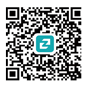
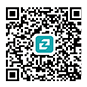
00

diff --git a/css/homepage.css b/css/homepage.css
@@ -56,7 +56,7 @@ a{
     -webkit-transition: all 0.2s;
 }
 .fanzhuanmargin{
-    margin-left: 0 !important;
+    margin-left: 28px !important;
 }
 
 /* 公共头部 */
@@ -239,14 +239,14 @@ header{
     width: 100%;
     background-image: url(../image/banner1.png);
     background-repeat: no-repeat;
-    background-size: auto 100%;
+    background-size: cover;
 }
 .two{
     height: 785px;
     width: 100%;
     background-image: url(../image/banner2.png);
     background-repeat: no-repeat;
-    background-size: auto 100%;
+    background-size: cover;
 }
 .one>img{
      width: 100%; 
@@ -301,7 +301,7 @@ video{
     height: 455px;
     background-image: url(../image/trouble.svg);
     background-repeat: no-repeat;
-    background-size: 100% 455px;
+    background-size: cover;
     position: relative;
 }
 .trouble_within{
@@ -470,7 +470,7 @@ video{
     width: 100%;
     height: 548px;
     background-image: url(../image/intro.png);
-    background-size: auto 130%;
+    background-size: cover;
     background-repeat: no-repeat;
     position: relative;
     overflow: hidden;
@@ -541,7 +541,7 @@ video{
     right: -1500px;
 }
 .advantage_padding{
-    height: 486px;
+    height: 512px;
 }
 .out_advantage{
     width: 100%;
@@ -616,7 +616,7 @@ video{
     width: 100%;
     height: 686px;
     background-image: url(../image/service.png);
-    background-size: auto 130%;
+    background-size: cover;
     background-repeat: no-repeat;
     position: relative;
     overflow: hidden;
@@ -645,8 +645,7 @@ video{
     background-position: 0 bottom;
     width: 247px;
     height: 410px;
-    /* margin-left: 28px; */
-    /* left: 28px; */
+    margin-left: 28px;
     margin-top: 26px;
 }
 .back{
@@ -988,7 +987,7 @@ video{
     width: 100%;
     height: 694px;
     background-image: url(../image/sence.png);
-    background-size: auto 130%;
+    background-size: cover;
     position: relative;
     overflow: hidden;
     background-repeat: no-repeat;
@@ -1006,7 +1005,7 @@ video{
     margin-top: 30px;
     height: 508px;
     background-image: url(../image/sence.svg);
-    background-size: 430px 480px;
+    background-size: cover;
     background-repeat: no-repeat;
     background-position: 322px 0;
     position: relative;
@@ -1396,7 +1395,7 @@ video{
 .news{
     height: 564px;
     background-image: url(../image/news.png);
-    background-size: auto 130%;
+    background-size: cover;
     position: relative;
     overflow: hidden;
     background-repeat: no-repeat;

diff --git a/index.html b/index.html
@@ -884,11 +884,11 @@
                     <div class="ewm">
 
                         <div>
-                            <img src="image/ewm_download.png" alt="">
+                            <img src="image/ewm_public.png" alt="">
                             <span>易职信公共账号</span>
                         </div>
                         <div>
-                            <img src="image/ewm_public.png" alt="">
+                            <img src="image/ewm_download.png" alt="">
                             <span>APP下载</span>
                         </div>
                     </div>

diff --git a/js/homepage.js b/js/homepage.js
@@ -120,7 +120,7 @@ $(function () {
         $(this).parent().next().addClass('fanzhuan1');
 	})
     $('.back_service_content1').mouseleave(function(){
-        $(this).parent().prev().removeClass('fanzhuanmargin');
+        $(this).parent().prev().addClass('fanzhuanmargin');
         $(this).parent().removeClass('fanzhuan1').addClass('fanzhuan2');
         $(this).parent().parent().siblings('li').children('front').removeClass('fanzhuan2').addClass('fanzhuan1');
         // $(this).parent().parent().siblings('li').children('front').addClass('fanzhuanmargin');
